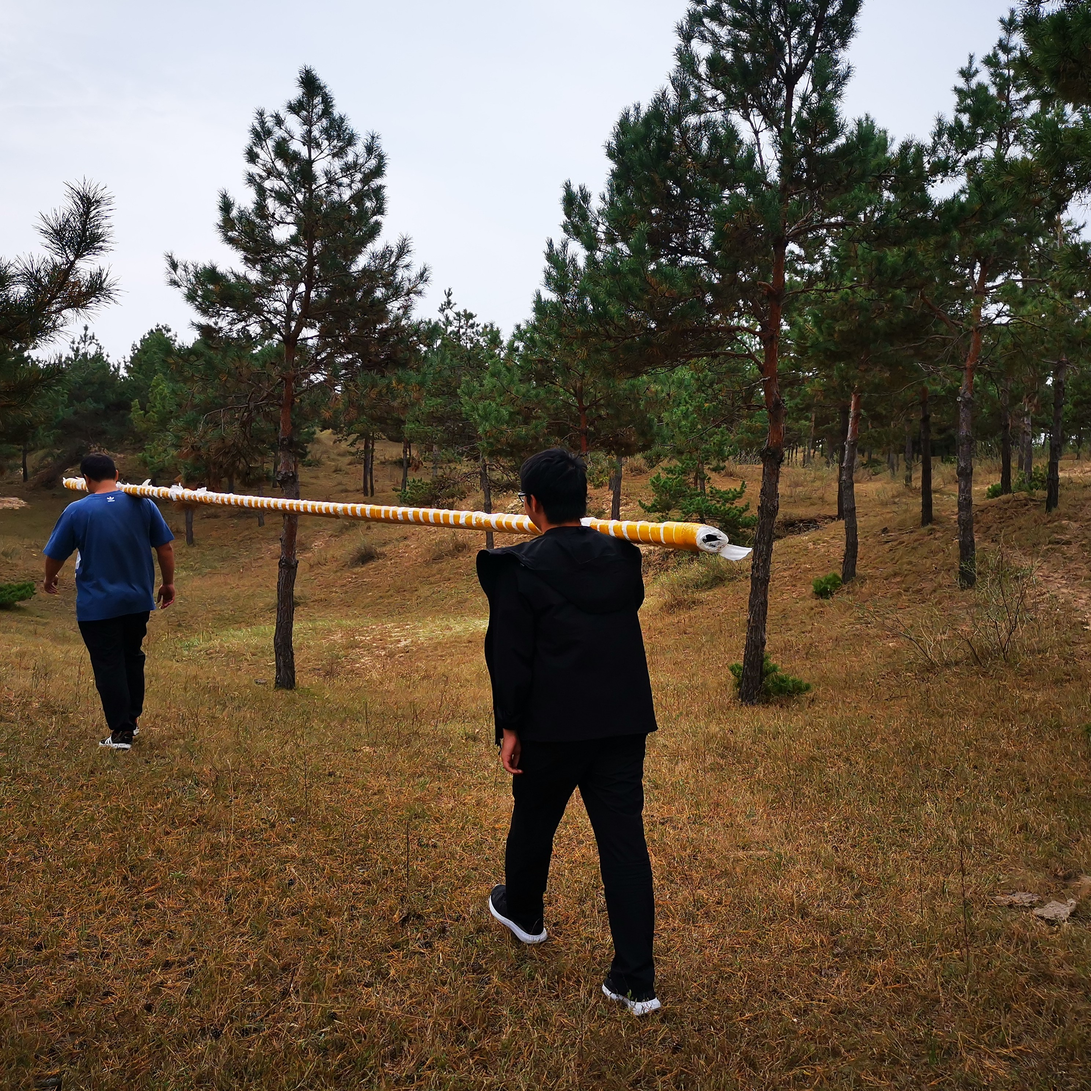
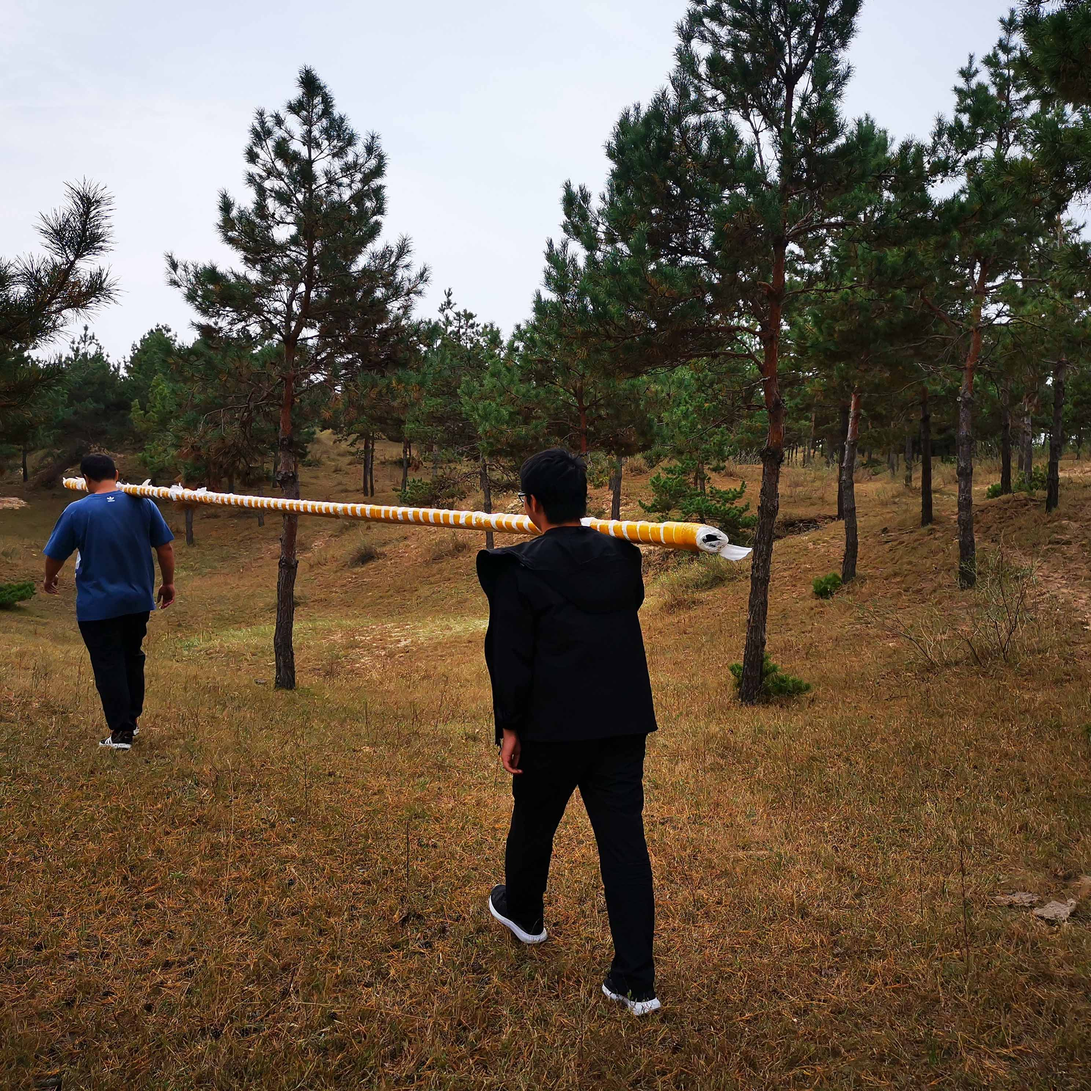
图片大小修改

diff --git a/news.html b/news.html
@@ -284,7 +284,7 @@
 
                           <div class="col-md-4">
                               <div class="card mb-4 box-shadow">
-                                  <img class="card-img-top" src="static/news/20210512.png" alt="Card image cap">
+                                  <img class="card-img-top" src="static/news/20210512.jpg" alt="Card image cap">
                                   <div class="card-body">
                                       <h5><b>2021年赴浑善达克大样地全面启动疏林草原“星-空-地”一体化综合观测</b></h5>
                                       <p class="card-text">5月12-15日，沈阳农业大学农学院丛巍巍老师，中国林科院荒漠化所王锋研究员、崔梦淳老师，中国科学院微电子研究所研究生杨斌与课题组成员李晓雅、杨凯捷、姜宇、张宇昕前往浑善达克榆树疏林大样地，安装荧光仪器，测试M300 RTK无人机，同时采集了样地无人机可见光与激光雷达影像，完成物候影像数据和土壤水分数据的收集工作，顺利启动2021年浑善达克沙地疏林草原“星-空-地”一体化综合观测。</p>
@@ -301,7 +301,7 @@
 
                           <div class="col-md-4">
                               <div class="card mb-4 box-shadow">
-                                  <img class="card-img-top" src="static/news/20210401.png" alt="Card image cap">
+                                  <img class="card-img-top" src="static/news/20210401.jpg" alt="Card image cap">
                                   <div class="card-body">
                                       <h5><b>赴辽宁省彰武县考察樟子松人工林野外观测样地</b></h5>
                                       <p class="card-text">4月1-2日，沈阳农业大学农学院丛巍巍老师与王锋研究员共赴辽宁省彰武县辽宁沙地治理与利用研究所章古台林场考察樟子松人工林野外观测样地，推进樟子松基于日光诱导叶绿素荧光与生产力及环境要素协同监测工作。</p>
